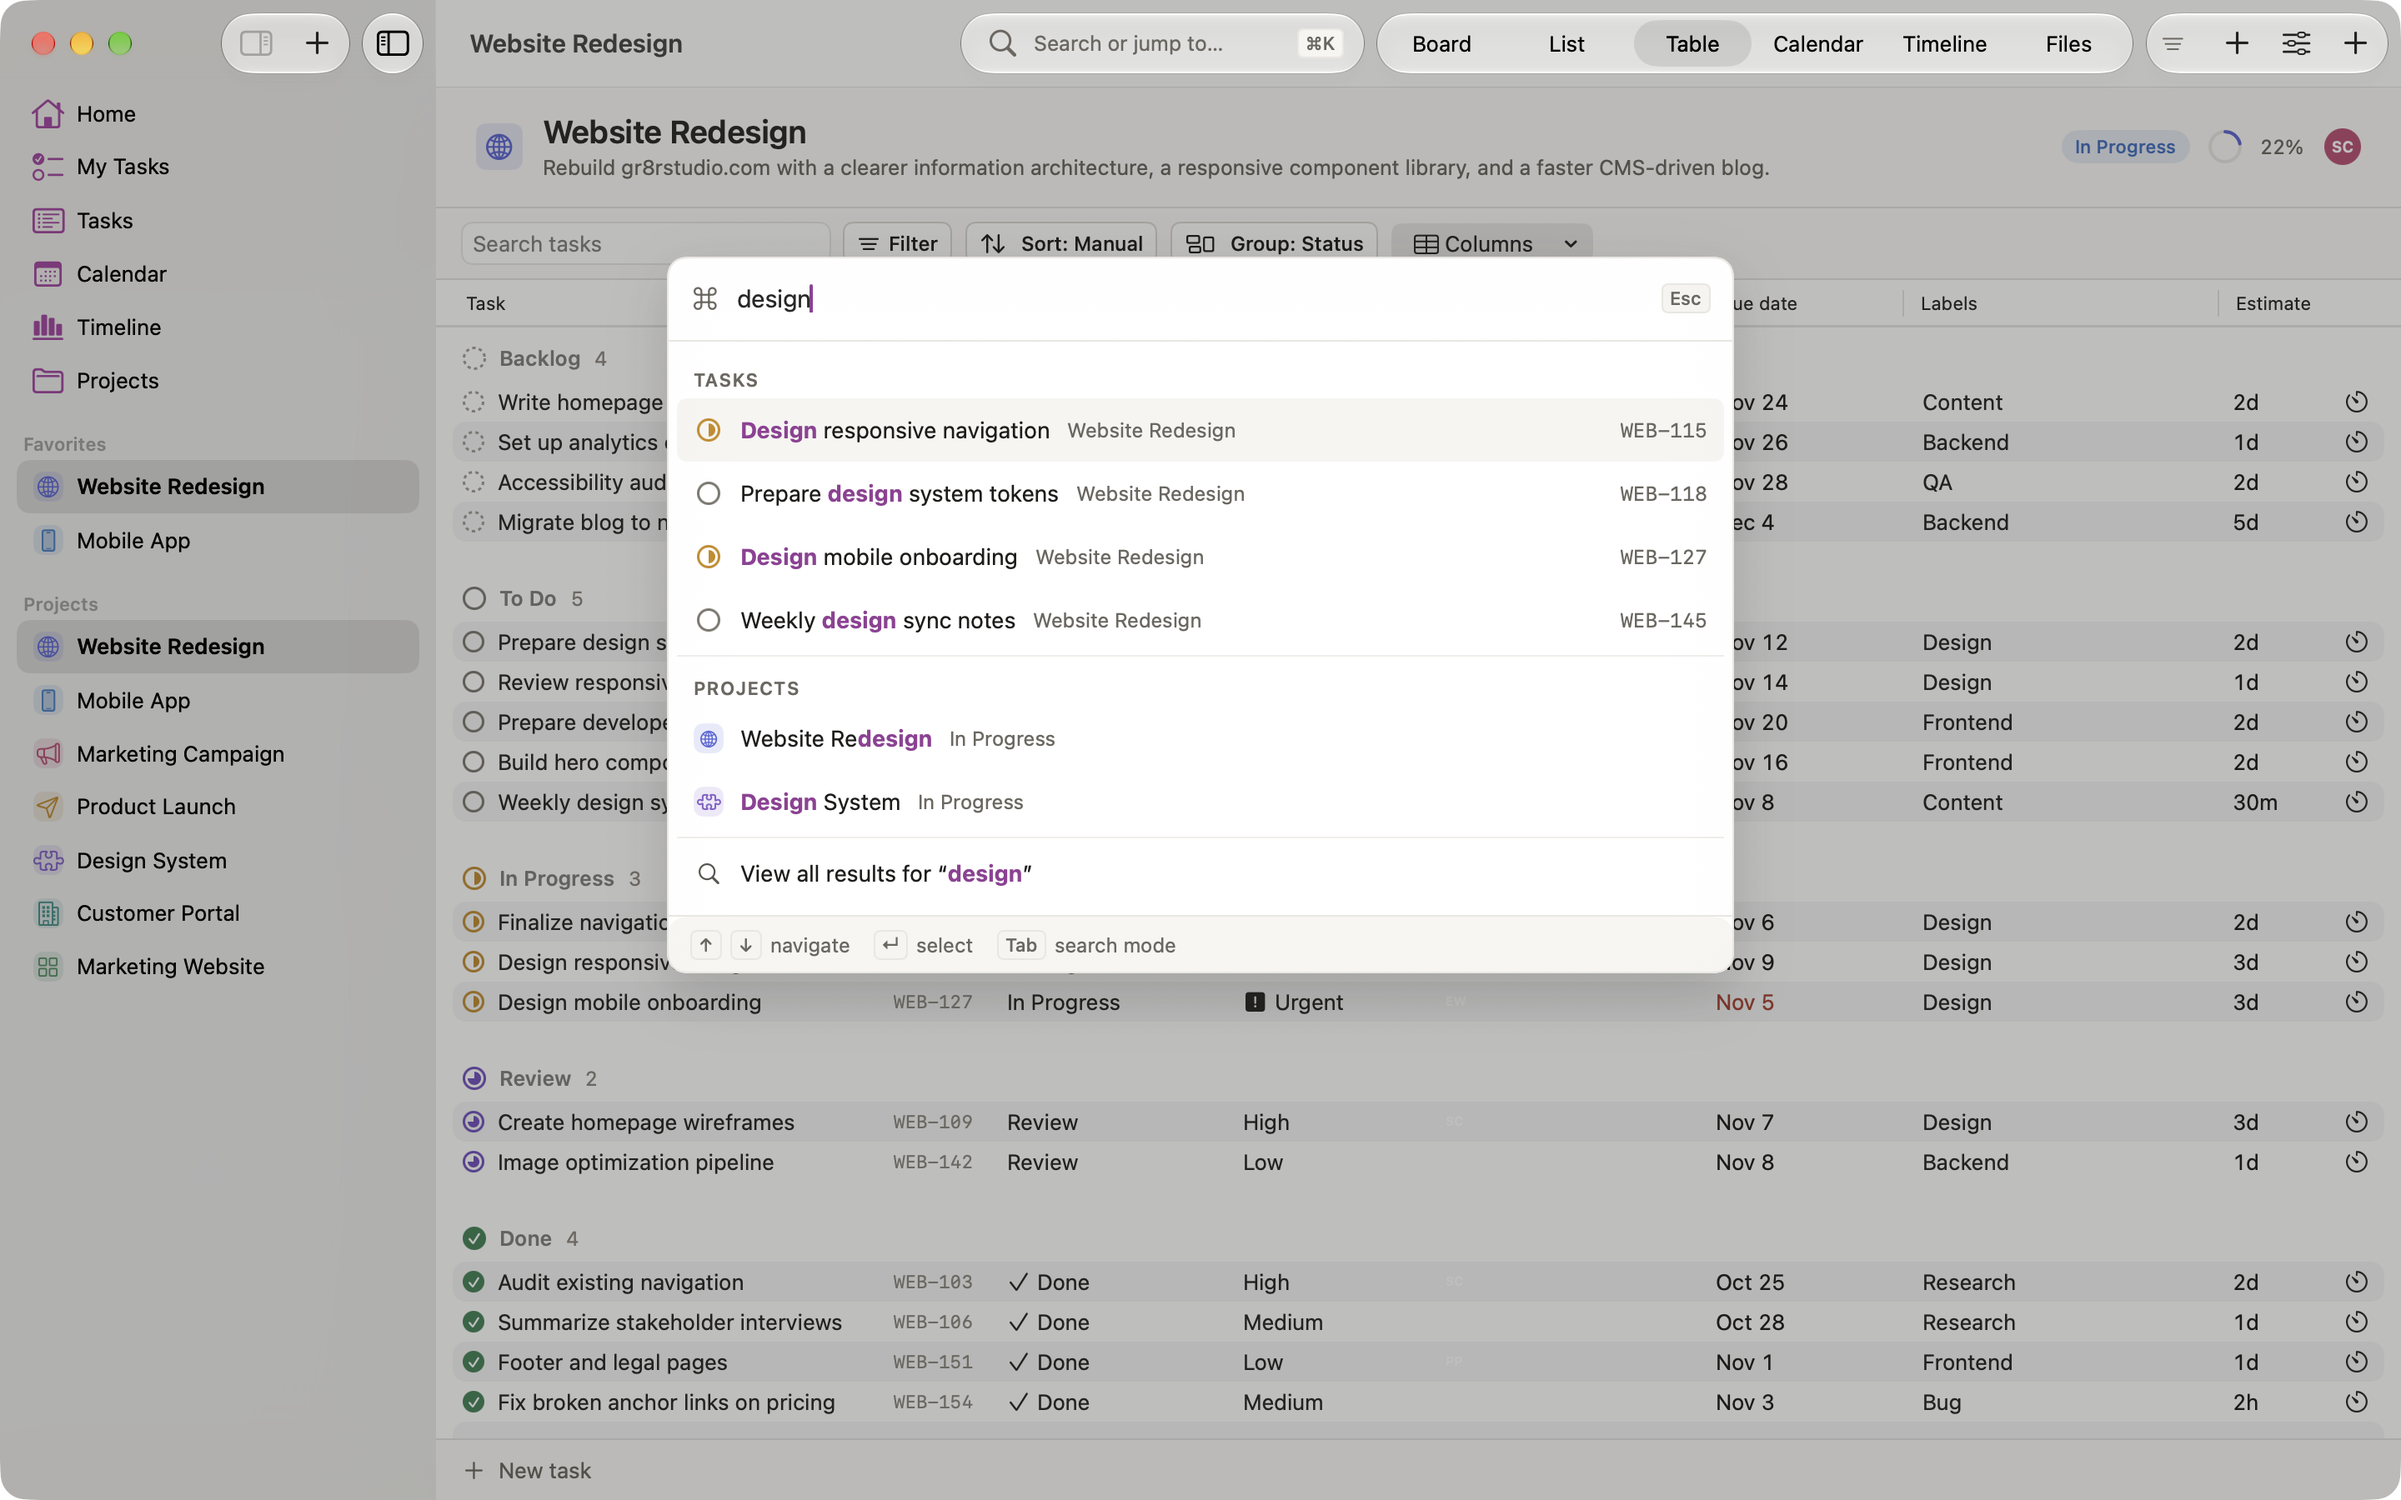
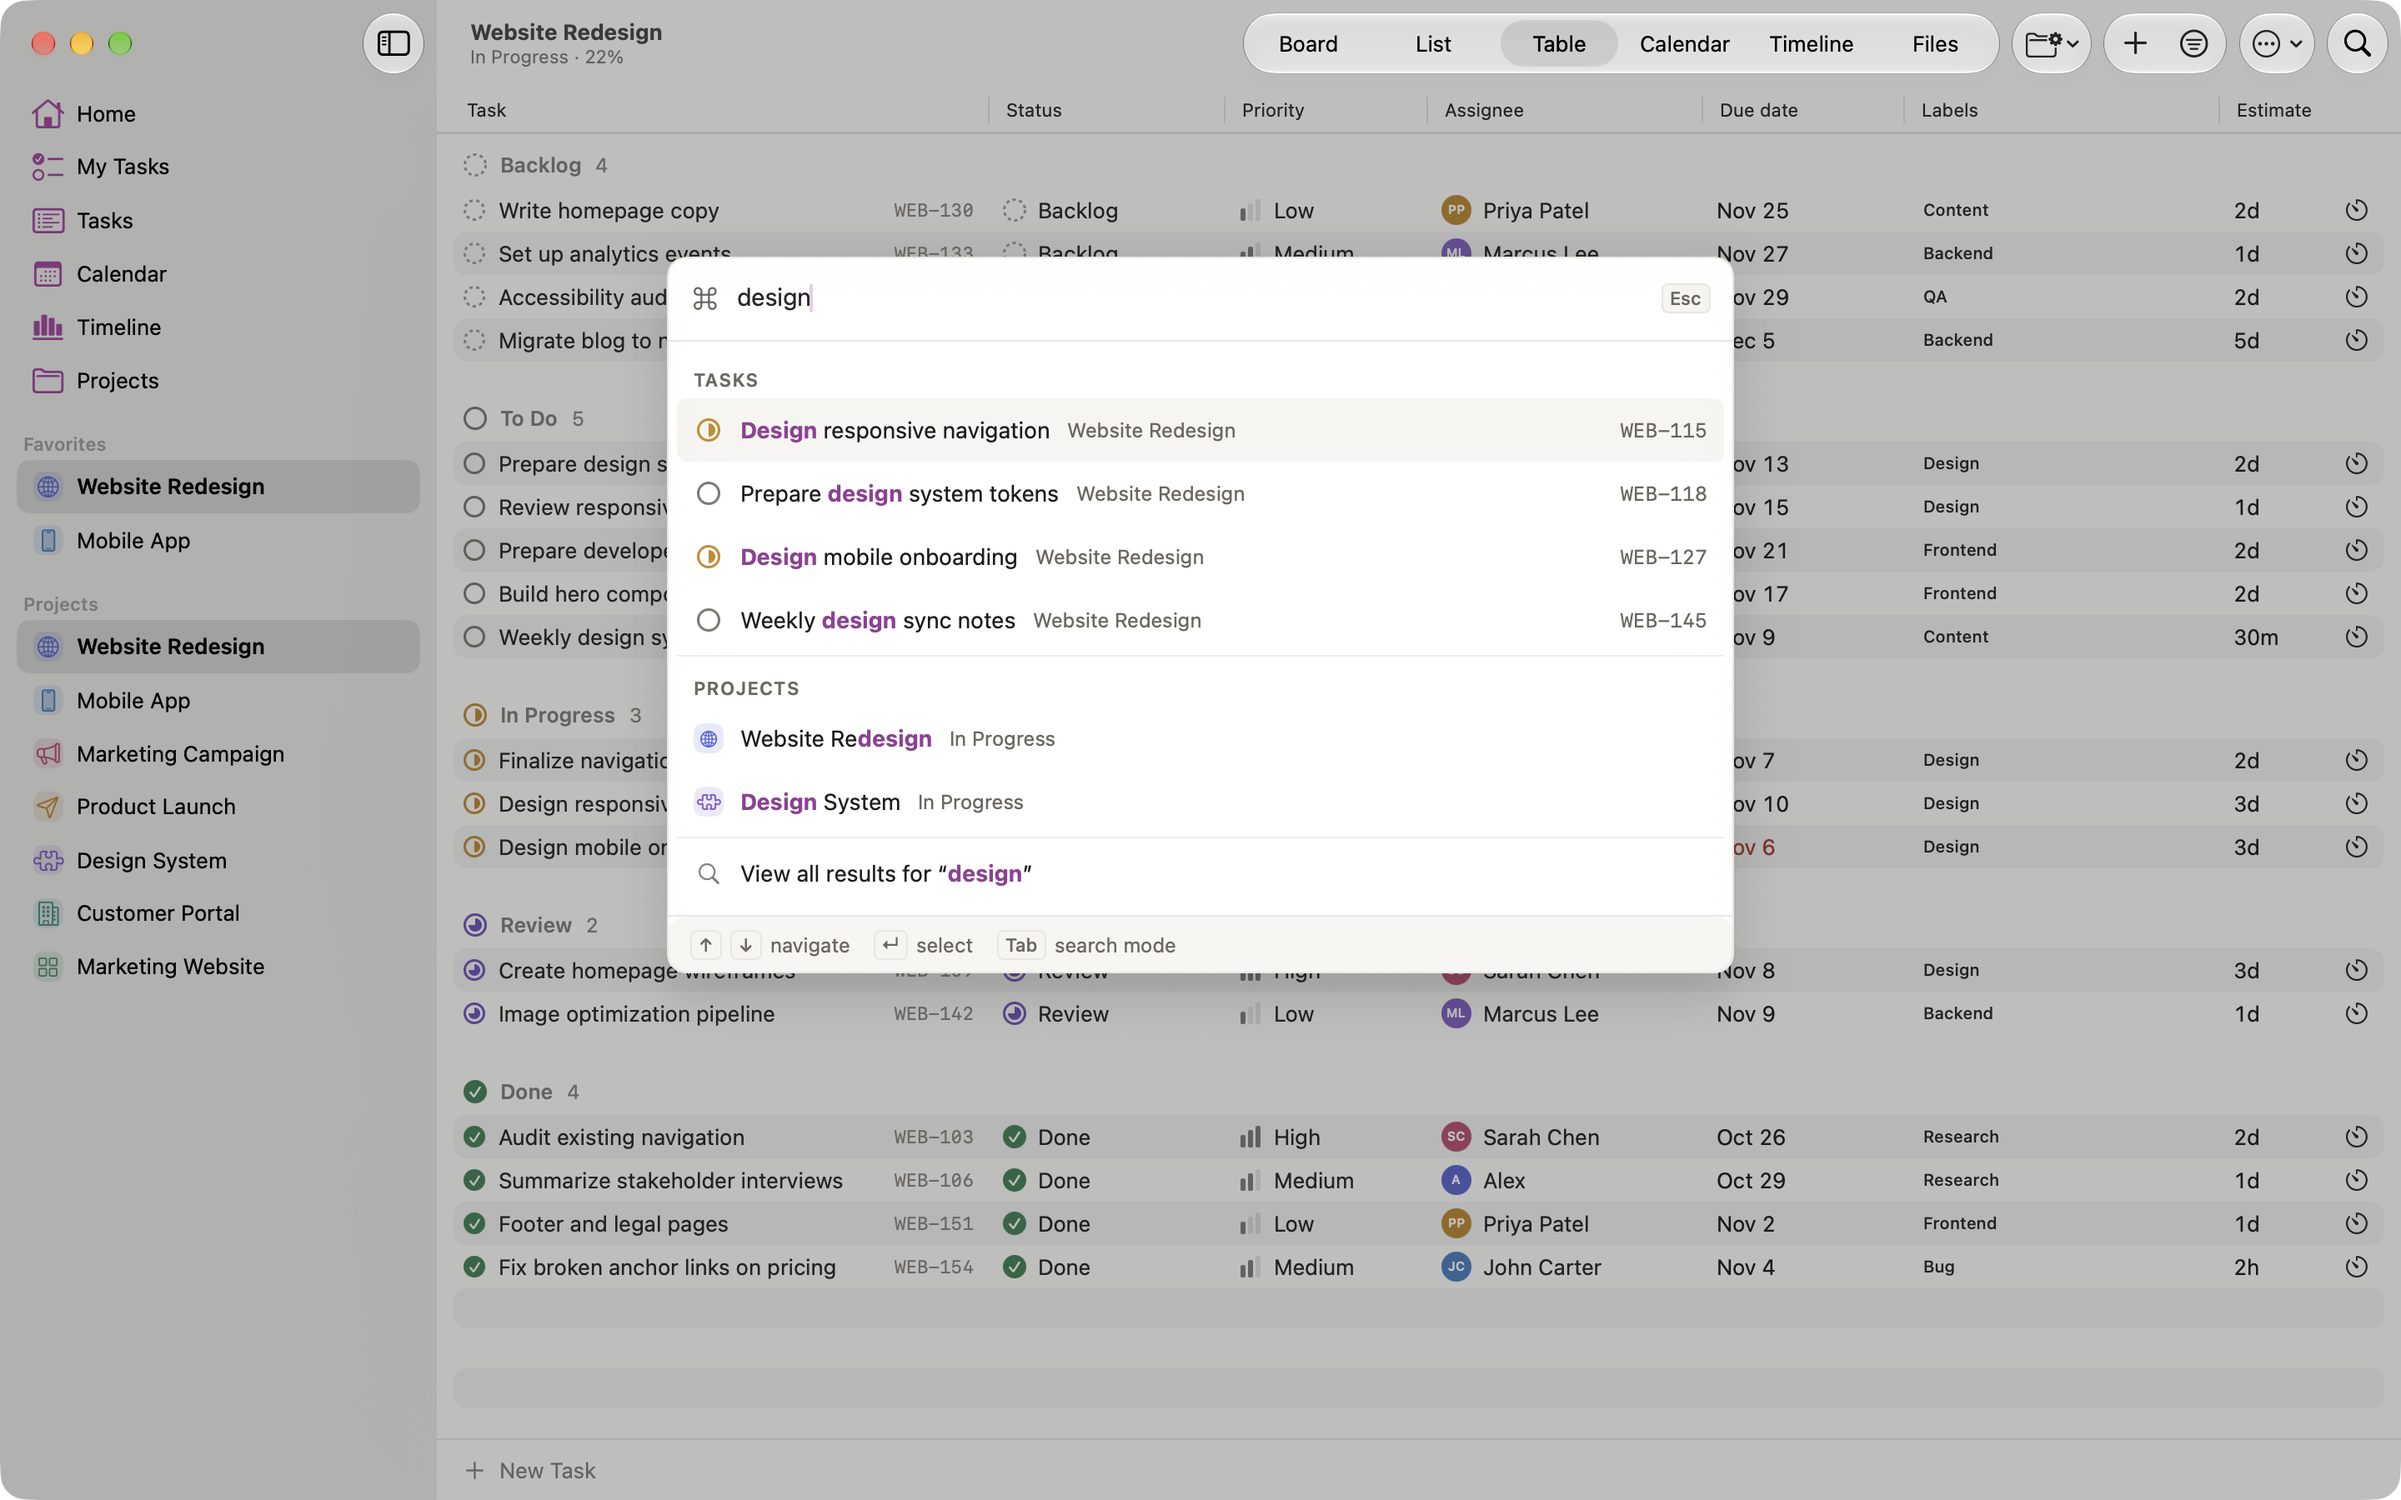
feat(tycho): retake the palette screenshots on the fixed build

diff --git a/tycho/SHOTLIST.md b/tycho/SHOTLIST.md
@@ -11,8 +11,9 @@ Source: https://github.com/akira-foundation/tycho (native SwiftUI task manager f
 - [x] `table/01-inline-edit.png`: macOS table view with the inline title field focused after a click, cursor visible. NEEDED BY Wed 11/11 08:00
 - [x] `table/02-ios-cards.png`: iPhone table view of Website Redesign, rows shown as cards.
 - [x] `home/01-home.png`: the focused home screen with today's tasks. NEEDED BY Fri 13/11 08:00
-- [x] `palette/01-command-k.png`: macOS, the Command-K palette open over a demo project, with suggestions, recent tasks and a typed search showing results per scope. NEEDED BY Thu 12/11 08:00
+- [x] `palette/01-command-k.png`: macOS, the Command-K palette open over a demo project, with suggestions, recent tasks and navigation, the field empty. NEEDED BY Thu 12/11 08:00
 - [x] `palette/02-search.png`: macOS, the Command-K palette with "design" typed, showing task and project results. NEEDED BY Thu 12/11 08:00
+- [x] `palette/03-view-all.png`: macOS, the Search page opened from "View all results" for "design", with a count per scope.
 - [x] `shortcuts/01-sheet.png`: macOS, the keyboard shortcuts sheet (opened with ?) listing the single keys and the G chords. NEEDED BY Sat 14/11 13:00
 - [x] `views/01-filter-builder.png`: macOS, a demo project's task view with the filter builder open, two filter chips applied (status is Open, priority is High). NEEDED BY Sun 15/11 08:00
 - [x] `views/02-saved-view.png`: the same project after saving that filter as a view: the new tab next to the built-in ones. NEEDED BY Sun 15/11 08:00

diff --git a/tycho/palette/post.md b/tycho/palette/post.md
@@ -16,6 +16,7 @@ Command-K in Tycho opens a palette: suggestions, recent tasks, recent searches a
 
 - `01-command-k.png`
 - `02-search.png`
+- `03-view-all.png`
 
 ---
 
@@ -39,3 +40,4 @@ Keyboard or mouse, how do you move around your task manager?
 
 - `01-command-k.png`
 - `02-search.png`
+- `03-view-all.png`
